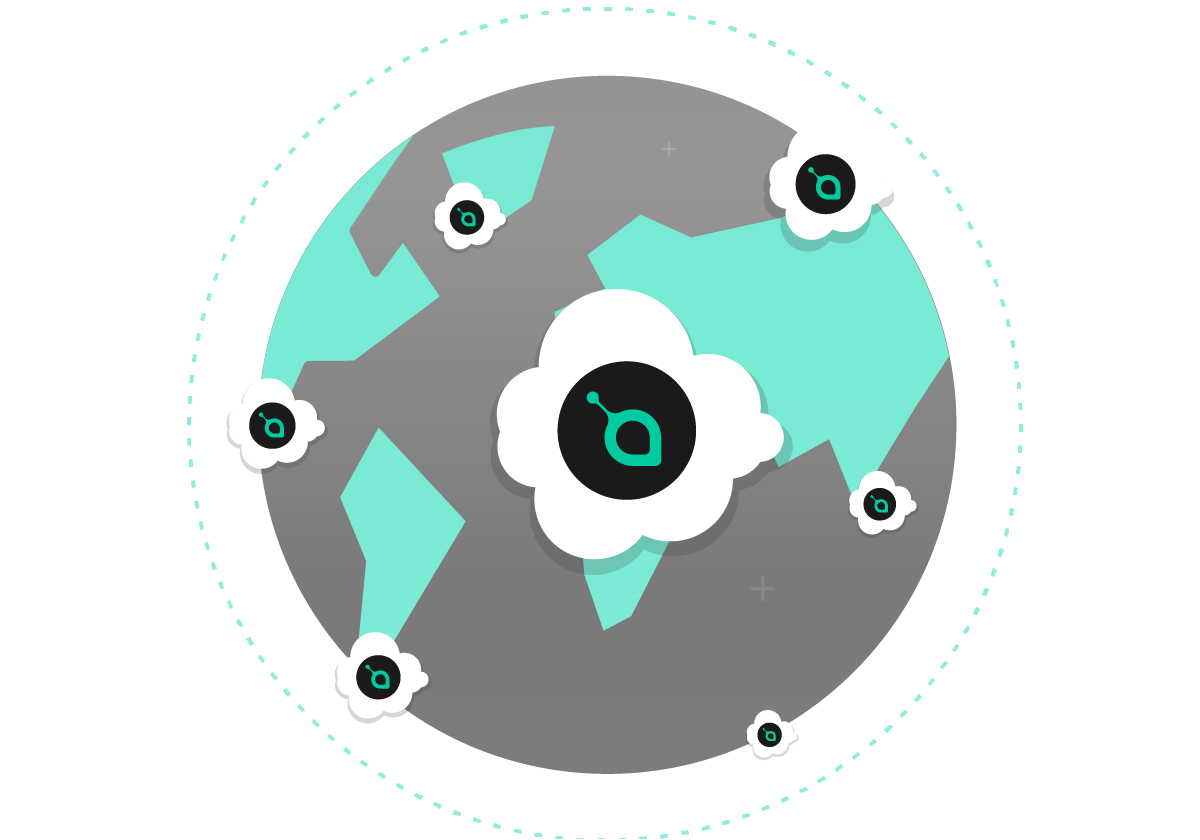
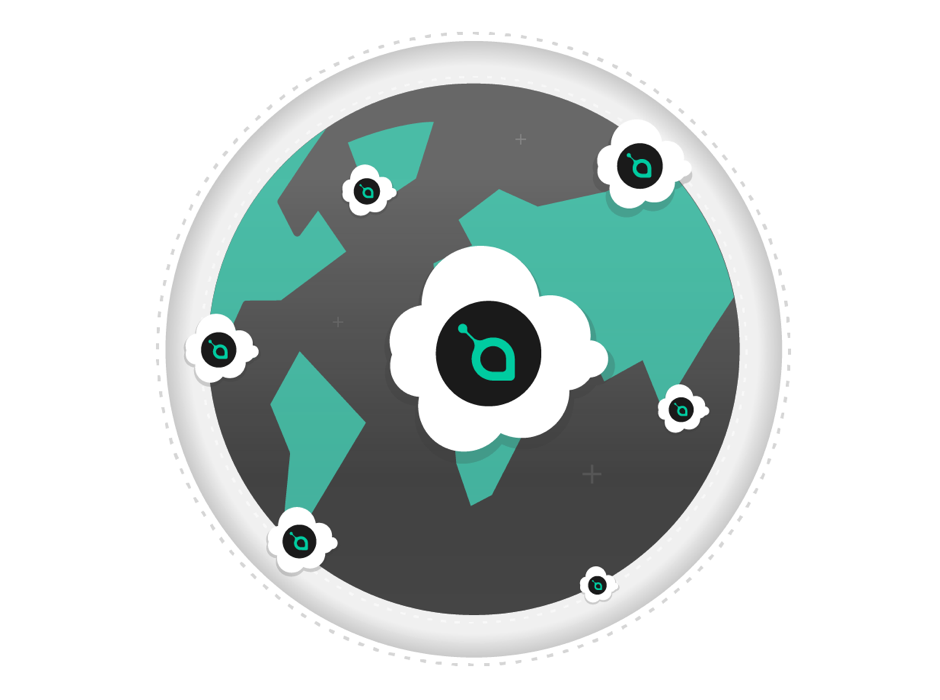
Updates to homepage
Added new images, adjusted image sizing, fixed subtitle letter spacing,
adjusted “ready to transform your cloud” button columns.

diff --git a/content/index.html b/content/index.html
@@ -166,12 +166,14 @@ i18nwarnings = [ "zh-hant", "ru" ]
 		<h1 class="title is-2"> {{% i18n "index_transformcloudheader" %}} </h1>
 		<div class="columns transform-buttons has-text-centered">
 			<div class="column"></div>
+			<div class="column"></div>
 			<div class="column">
 				<a href="get-started" class="button is-large is-outlined"> {{% i18n "index_transformcloudgetstarted" %}} </a>
 			</div>
 			<div class="column">
 				<a href="mailto:hello@sia.tech" class="button is-large is-outlined"> {{% i18n "index_transformcloudcontact" %}} </a>
 			</div>
+			<div class="column"></div>
 			<div class="column"></div>
 		</div>
 	</div>
@@ -199,4 +201,3 @@ i18nwarnings = [ "zh-hant", "ru" ]
 </section>
 
 <script src="/scripts/homepage.js"></script>
-

diff --git a/static/css/style-homepage.sass b/static/css/style-homepage.sass
@@ -24,7 +24,7 @@ $family-primary: $primary-font
 .subtitle.sia-lead-sub
 	padding-top: 0.6rem
 	padding-bottom: 0.1rem
-	letter-spacing: 0.1rem
+	letter-spacing: 0.05rem
 
 .hero.is-primary.connected-world
 	background-color: $color-background
@@ -46,7 +46,7 @@ $family-primary: $primary-font
 	background: $color-background
 
 .siainfo-image
-	max-width: 400px
+	max-width: 500px
 	height: auto
 	width: auto
 	margin: auto
@@ -60,7 +60,7 @@ $family-primary: $primary-font
 	margin: auto
 	display: block
 
-.column > p 
+.column > p
 	font-size: 1.2rem
 
 .section.calculation-section

diff --git a/static/css/style-homepage.css b/static/css/style-homepage.css
@@ -2,7 +2,7 @@
 .subtitle.sia-lead-sub {
   padding-top: 0.6rem;
   padding-bottom: 0.1rem;
-  letter-spacing: 0.1rem; }
+  letter-spacing: 0.05rem; }
 
 .hero.is-primary.connected-world {
   background-color: #1a1a1a;
@@ -24,7 +24,7 @@
   background: #1a1a1a; }
 
 .siainfo-image {
-  max-width: 400px;
+  max-width: 500px;
   height: auto;
   width: auto;
   margin: auto;
